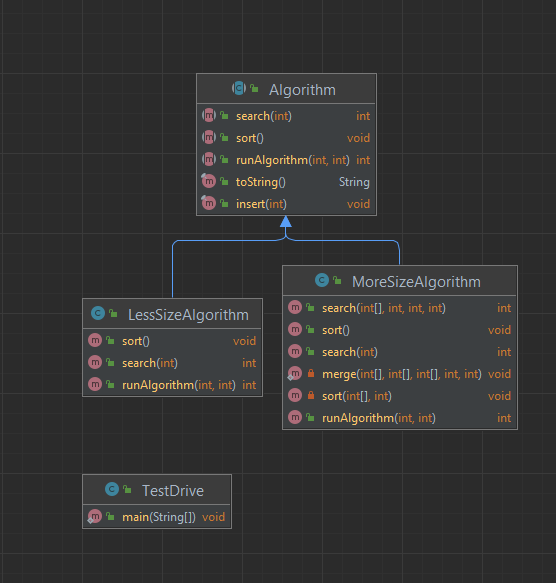
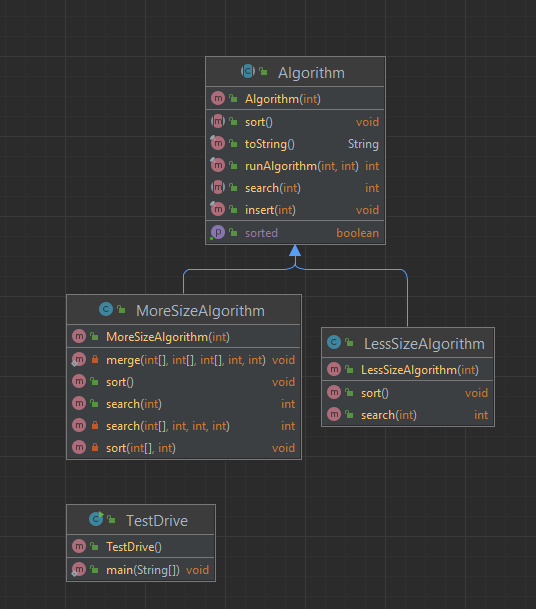
Implemented the isSorted() method and also improved the implementation of Template Pattern.

Changed region(s): [[0.1194, 0.0926, 0.9552, 0.7719], [0.1194, 0.8027, 0.4179, 0.9571]]

diff --git a/CMPT-470-Assignment-3/src/Algorithm/MoreSizeAlgorithm.java b/CMPT-470-Assignment-3/src/Algorithm/MoreSizeAlgorithm.java
@@ -49,7 +49,7 @@ public class MoreSizeAlgorithm extends Algorithm {
 		}
 	}
 
-    public int search( int[] sortedArray, int key, int low, int high) {
+    private int search( int[] sortedArray, int key, int low, int high) {
 		int index = -1;
 
 		while (low <= high) {
